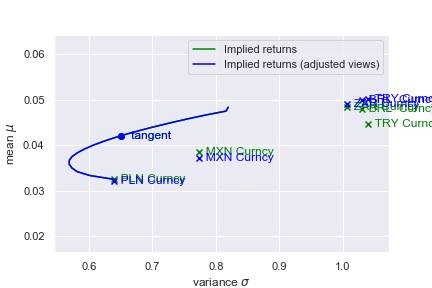
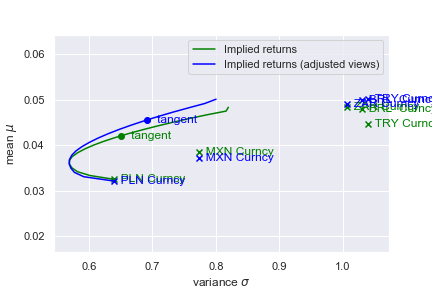
Updated wtih word doc to show the graphs in one place

Changed region(s): [[0.1505, 0.3438, 0.5417, 0.6562]]

diff --git a/Blitterman.py b/Blitterman.py
@@ -25,6 +25,9 @@ from dateutil.parser import parse
 import array as arr
 
 
+from fpdf import FPDF
+import matplotlib.backends.backend_pdf
+
 # Calculates portfolio mean return
 def port_mean(W, R):
     return sum(R * W)
@@ -204,6 +207,14 @@ rf = .015  # Risk-free rate
 display(pd.DataFrame({'Return': R, 'Weight (based on market cap)': W}, index=names).T)
 display(pd.DataFrame(C, columns=names, index=names))
 
+# Creating a pdf file to save the graphs
+pdf = FPDF()
+pdf.add_page()
+pdf.set_font("Arial", size=12)
+pdf.cell(200, 10, txt="Black Litterman model", ln=1, align="C")
+pdf.output("simple_demo.pdf")
+
+
 #Mean-Variance Optimization (based on historical returns)
 res1 = optimize_frontier(R, C, rf)
 
@@ -212,6 +223,8 @@ display_frontier(res1, color='blue')
 plt.xlabel('variance $\sigma$'), plt.ylabel('mean $\mu$'),plt.savefig("MVO based on historical returns.png"), plt.show()
 
 display(pd.DataFrame({'Weight': res1.W}, index=names).T)
+print(res1.W)
+
 plt.close
 #plt.savefig("MVO based on historical returns.jpeg")
 
@@ -270,12 +283,15 @@ sub_c = np.dot(np.linalg.inv(np.dot(tau, C)), Pi)
 sub_d = np.dot(np.dot(np.transpose(P), np.linalg.inv(omega)), Q)
 Pi_adj = np.dot(np.linalg.inv(sub_a + sub_b), (sub_c + sub_d))
 
-res3 = optimize_frontier(Pi + rf, C, rf)
+res3 = optimize_frontier(Pi_adj + rf, C, rf)
 
 display_assets(names, Pi+rf, C, color='green')
 display_frontier(res2, label='Implied returns', color='green')
 display_assets(names, Pi_adj+rf, C, color='blue')
 display_frontier(res3, label='Implied returns (adjusted views)', color='blue')
 plt.xlabel('variance $\sigma$'), plt.ylabel('mean $\mu$'), plt.legend(), plt.savefig("MVO based on equilibrium excess returns with views.png"), plt.show()
-display(pd.DataFrame({'Weight': res2.W}, index=names).T)
+display(pd.DataFrame({'Weight': res3.W}, index=names).T)
 plt.close
+
+
+
